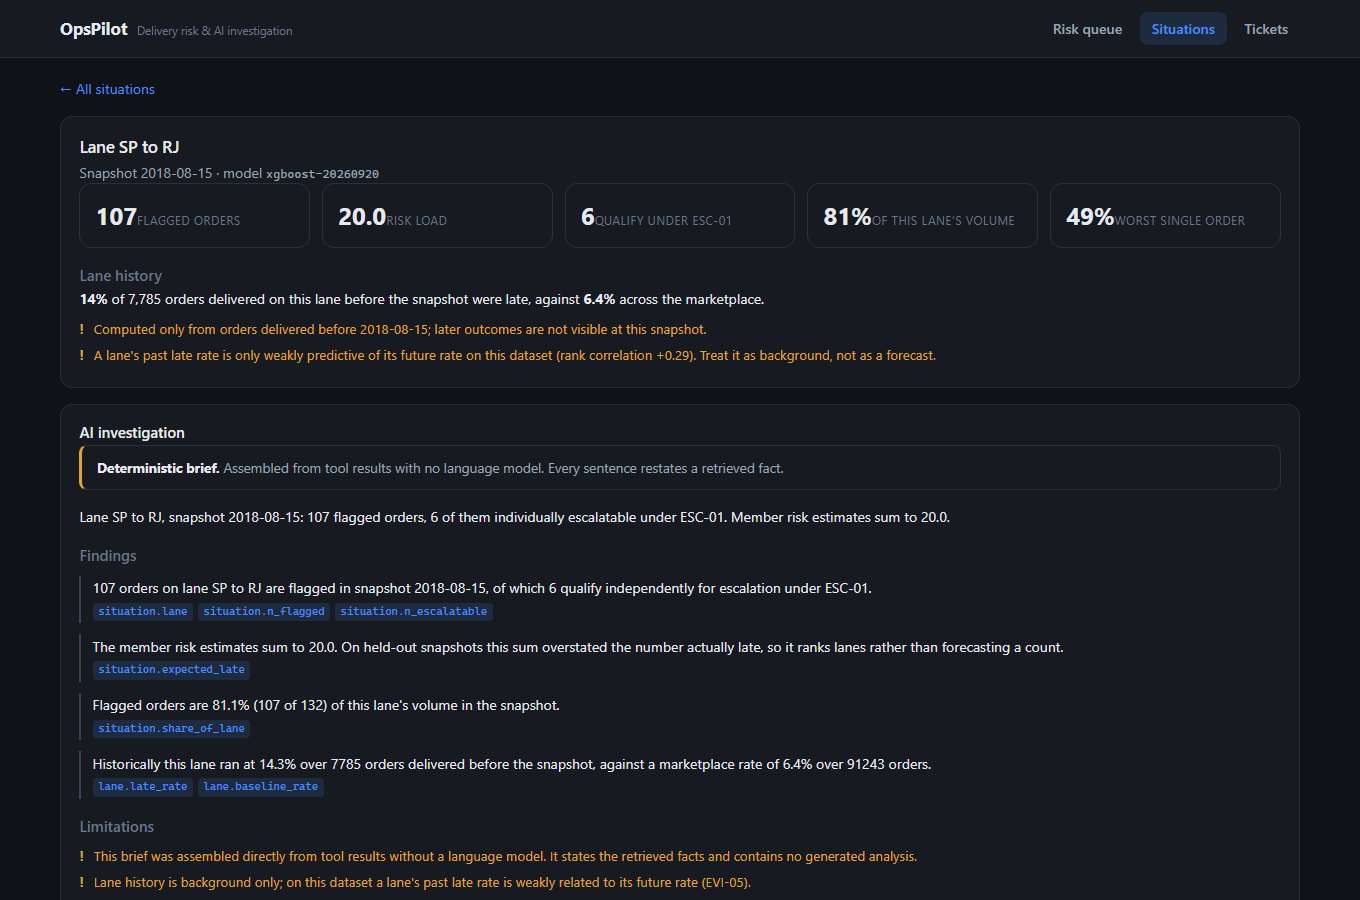
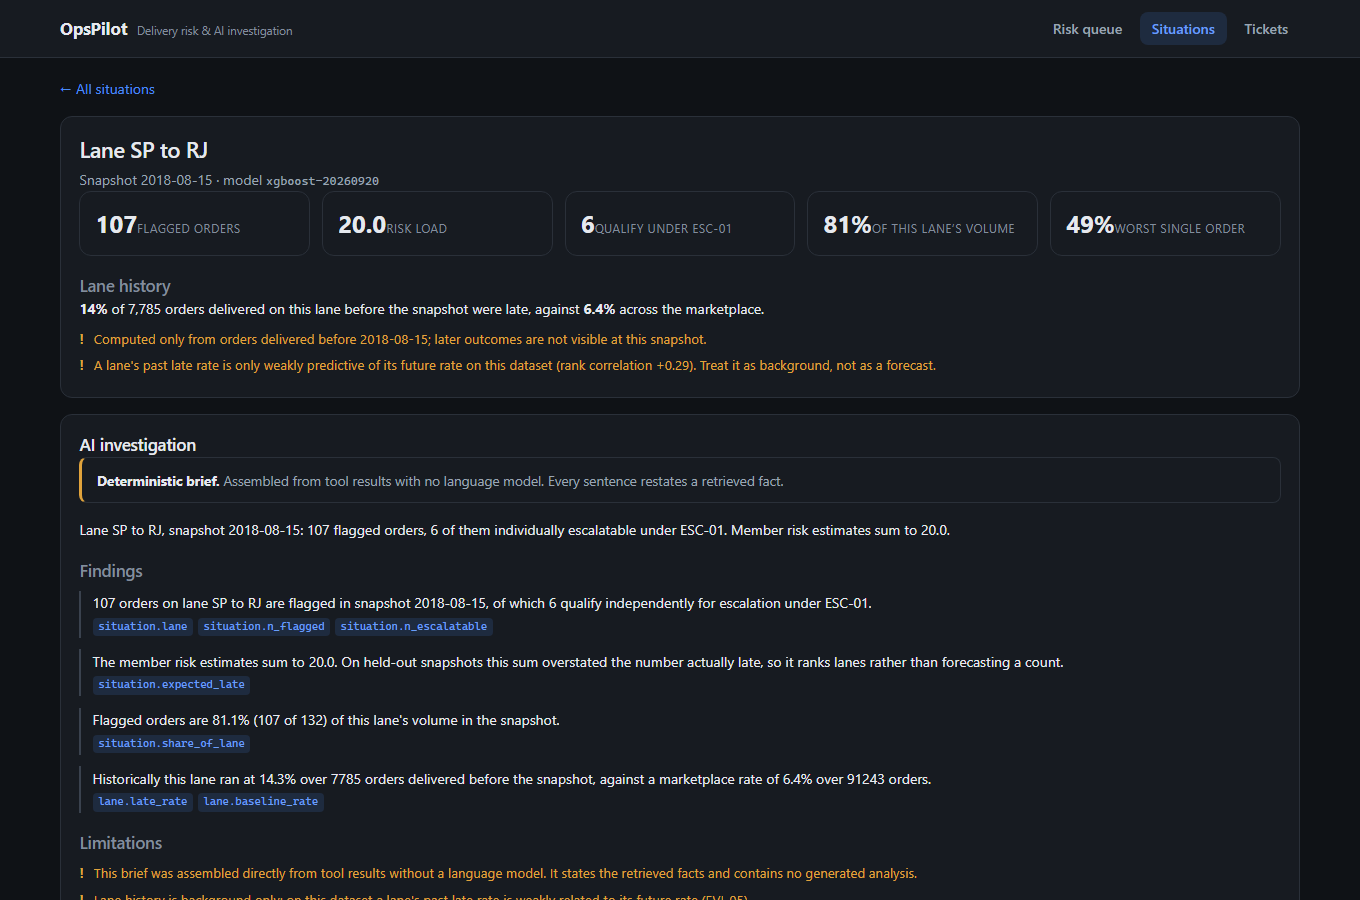
Audit accessibility properly: seven serious violations, all fixed
The previous pass fixed keyboard reachability and stopped there, saying
contrast and labelling were unaudited. axe-core over WCAG 2.1 A and AA on
every screen found them:

- --text-faint measured 3.39:1 on the darkest surface against a 4.5:1
  requirement, and it is the colour of every stat label, field label and
  caption in the product. Raised to 4.65:1 at worst.
- The accent on its own tinted background - the active nav item and every
  evidence-id chip in a report - measured 4.29:1. The hover shade is 5.33:1.
- Three of five screens had no h1 at all, so a screen reader had no page
  title to announce, and one page's sections skipped from h2 to h3.
- The link in the risk queue's hint was distinguished from the sentence
  around it by colour alone. Links in prose are now underlined; links that
  are their own block are not.

Zero violations now, enforced on every screen, and the suite runs in CI.
33 browser tests pass.

diff --git a/frontend/e2e/accessibility.spec.ts b/frontend/e2e/accessibility.spec.ts
@@ -1,0 +1,104 @@
+/** Automated accessibility checks on every screen.
+ *
+ *  A previous pass fixed the blocking defect - table rows were clickable but
+ *  not reachable by keyboard - and stopped there, leaving contrast and
+ *  labelling unexamined. This runs axe-core over each screen against the
+ *  WCAG 2.1 A and AA rule sets, which catches the categories a human reading
+ *  the markup reliably misses: contrast ratios, missing form labels, landmark
+ *  structure and heading order.
+ *
+ *  Serious violations fail the suite. Anything knowingly accepted is listed
+ *  in ACCEPTED below with the reason, so an exception is a decision on the
+ *  record rather than a silent skip.
+ */
+
+import AxeBuilder from "@axe-core/playwright";
+import { expect, test, type Page } from "@playwright/test";
+
+const TAGS = ["wcag2a", "wcag2aa", "wcag21a", "wcag21aa"];
+
+/** Rule ids deliberately not enforced, each with a reason. */
+const ACCEPTED: Record<string, string> = {};
+
+type Violation = {
+  id: string;
+  impact?: string | null;
+  help: string;
+  nodes: { target: unknown[] }[];
+};
+
+async function scan(page: Page, label: string) {
+  const results = await new AxeBuilder({ page }).withTags(TAGS).analyze();
+  const violations = (results.violations as Violation[]).filter(
+    (v) => !(v.id in ACCEPTED),
+  );
+
+  if (violations.length) {
+    const detail = violations
+      .map(
+        (v) =>
+          `  [${v.impact ?? "unknown"}] ${v.id}: ${v.help}\n` +
+          v.nodes
+            .slice(0, 3)
+            .map((n) => `      ${JSON.stringify(n.target)}`)
+            .join("\n"),
+      )
+      .join("\n");
+    throw new Error(`${label} has ${violations.length} accessibility violation(s):\n${detail}`);
+  }
+}
+
+test.describe("Accessibility (axe-core, WCAG 2.1 AA)", () => {
+  test("risk queue", async ({ page }) => {
+    await page.goto("/");
+    await expect(page.getByTestId("order-row").first()).toBeVisible();
+    await scan(page, "risk queue");
+  });
+
+  test("lane situations", async ({ page }) => {
+    await page.goto("/situations");
+    await expect(page.getByTestId("situation-row").first()).toBeVisible();
+    await scan(page, "lane situations");
+  });
+
+  test("lane detail", async ({ page }) => {
+    await page.goto("/situations");
+    await page.getByTestId("situation-row").first().click();
+    await expect(page.getByTestId("situation-detail-stats")).toBeVisible();
+    await scan(page, "lane detail");
+  });
+
+  test("order detail", async ({ page }) => {
+    await page.goto("/");
+    await page.getByTestId("order-row").first().getByRole("link").click();
+    await expect(page.locator("text=/Predicted at carrier handover/i").first()).toBeVisible();
+    await scan(page, "order detail");
+  });
+
+  test("tickets", async ({ page }) => {
+    await page.goto("/tickets");
+    await expect(page.getByRole("heading", { name: "Your tickets" })).toBeVisible();
+    await scan(page, "tickets");
+  });
+
+  test("a rendered lane brief", async ({ page }) => {
+    test.setTimeout(180_000);
+    await page.goto("/situations");
+    await page.getByTestId("situation-row").first().click();
+    await expect(page.getByTestId("situation-detail-stats")).toBeVisible();
+    await page.getByTestId("investigate-deterministic").click();
+    await expect(page.getByTestId("situation-report")).toBeVisible({ timeout: 90_000 });
+    await scan(page, "lane brief");
+  });
+
+  test("every page has one main landmark and a page heading", async ({ page }) => {
+    for (const path of ["/", "/situations", "/tickets"]) {
+      await page.goto(path);
+      await page.waitForTimeout(1200);
+      expect(await page.locator("main").count(), `${path} main landmark`).toBe(1);
+      // Exactly one h1 per page: three screens had none at all, so a screen
+      // reader had no page title to announce.
+      expect(await page.getByRole("heading", { level: 1 }).count(), `${path} h1`).toBe(1);
+    }
+  });
+});

diff --git a/frontend/src/pages/SituationDetail.tsx b/frontend/src/pages/SituationDetail.tsx
@@ -119,7 +119,7 @@ export default function SituationDetail() {
       <section className="card">
         <div className="row">
           <div>
-            <h2 style={{ marginBottom: "0.2rem" }}>Lane {situation.lane}</h2>
+            <h1 style={{ marginBottom: "0.2rem" }}>Lane {situation.lane}</h1>
             <p className="muted" style={{ margin: 0 }}>
               Snapshot {situation.snapshot_id} &middot; model{" "}
               <code>{situation.model_version ?? "unavailable"}</code>
@@ -152,7 +152,7 @@ export default function SituationDetail() {
           </div>
         </div>
 
-        <h3 className="faint">Lane history</h3>
+        <h2 className="faint">Lane history</h2>
         {history.available ? (
           <p style={{ marginTop: 0 }}>
             <strong>{formatRisk(history.late_rate ?? 0)}</strong> of{" "}
@@ -179,7 +179,7 @@ export default function SituationDetail() {
       </section>
 
       <section className="card">
-        <h3 style={{ marginTop: 0 }}>AI investigation</h3>
+        <h2 style={{ marginTop: 0 }}>AI investigation</h2>
 
         {!investigation && !running && (
           <>
@@ -252,9 +252,9 @@ export default function SituationDetail() {
 
             {investigation.facts.length > 0 && (
               <div>
-                <h3 className="faint" style={{ marginBottom: "0.5rem" }}>
+                <h2 className="faint" style={{ marginBottom: "0.5rem" }}>
                   Findings
-                </h3>
+                </h2>
                 {investigation.facts.map((f, i) => (
                   <div className="fact" key={i}>
                     {f.statement}
@@ -272,9 +272,9 @@ export default function SituationDetail() {
 
             {investigation.limitations.length > 0 && (
               <div>
-                <h3 className="faint" style={{ marginBottom: "0.5rem" }}>
+                <h2 className="faint" style={{ marginBottom: "0.5rem" }}>
                   Limitations
-                </h3>
+                </h2>
                 {investigation.limitations.map((l, i) => (
                   <div className="limitation" key={i}>
                     {l}
@@ -284,9 +284,9 @@ export default function SituationDetail() {
             )}
 
             <div>
-              <h3 className="faint" style={{ marginBottom: "0.3rem" }}>
+              <h2 className="faint" style={{ marginBottom: "0.3rem" }}>
                 Recommendation
-              </h3>
+              </h2>
               <p style={{ marginBottom: "0.25rem" }}>
                 <strong>
                   {RECOMMENDATION_LABEL[investigation.recommendation ?? ""] ??
@@ -331,7 +331,7 @@ export default function SituationDetail() {
 
       {proposal && (
         <section className="card" data-testid="situation-proposal">
-          <h3 style={{ marginTop: 0 }}>Proposed action</h3>
+          <h2 style={{ marginTop: 0 }}>Proposed action</h2>
           <p>{proposal.reason}</p>
           <p className="muted small">
             This escalation would cover{" "}
@@ -379,9 +379,9 @@ export default function SituationDetail() {
       )}
 
       <section className="card">
-        <h3 style={{ marginTop: 0 }}>
+        <h2 style={{ marginTop: 0 }}>
           Member orders ({situation.members.length})
-        </h3>
+        </h2>
         <div className="table-wrap">
           <table>
             <thead>

diff --git a/frontend/src/index.css b/frontend/src/index.css
@@ -11,7 +11,10 @@
 
   --text: #e6e9ee;
   --text-muted: #9aa4b2;
-  --text-faint: #6b7686;
+  /* Raised from #6b7686, which measured 3.39:1 on the darkest
+     surface against the 4.5:1 WCAG AA requirement. Now 4.65:1
+     at worst; axe-core enforces it on every screen. */
+  --text-faint: #828d9d;
 
   --accent: #4b8bf5;
   --accent-hover: #6a9ef7;
@@ -119,7 +122,9 @@ code, .mono { font-family: var(--mono); font-size: 0.86em; }
   font-weight: 500;
 }
 .nav a:hover { background: var(--surface-2); color: var(--text); text-decoration: none; }
-.nav a.active { background: var(--accent-soft); color: var(--accent); }
+/* The tinted active background lifts the floor, so the plain accent
+   measured only 4.29:1 on it. The hover shade clears AA at 5.33:1. */
+.nav a.active { background: var(--accent-soft); color: var(--accent-hover); }
 
 .main {
   flex: 1;
@@ -363,7 +368,9 @@ tbody tr.clickable:hover { background: var(--surface-2); }
   font-family: var(--mono);
   font-size: 0.68rem;
   background: var(--accent-soft);
-  color: var(--accent);
+  /* Accent on its own tinted background is 4.29:1. The hover shade is
+     5.33:1 and clears AA; same fix as the active nav item. */
+  color: var(--accent-hover);
   border-radius: 4px;
   padding: 0.05rem 0.35rem;
 }
@@ -479,3 +486,16 @@ tbody tr.clickable:hover { background: var(--surface-2); }
   margin-top: 0.2rem;
 }
 .factor__bar span { display: block; height: 100%; border-radius: 2px; }
+
+/* ---------- inline links in running text ----------
+   axe flagged `link-in-text-block`: a link inside a paragraph that differs
+   from the surrounding text only by colour is invisible to anyone who does
+   not perceive that difference. Links inside prose are underlined; links
+   that are their own block (nav, table cells, buttons) are not, because
+   there is no surrounding text to be confused with. */
+p a,
+.limitation a,
+.fact a {
+  text-decoration: underline;
+  text-underline-offset: 0.15em;
+}

diff --git a/frontend/src/pages/OrderInvestigation.tsx b/frontend/src/pages/OrderInvestigation.tsx
@@ -227,7 +227,7 @@ export default function OrderInvestigation() {
           </div>
 
           <div className="card">
-            <h2 style={{ marginBottom: "0.7rem" }}>Order as of {formatDate(order.snapshot_at)}</h2>
+            <h1 style={{ marginBottom: "0.7rem" }}>Order as of {formatDate(order.snapshot_at)}</h1>
             <dl className="kv">
               <dt>Purchased</dt>
               <dd>{formatDateTime(order.order_purchase_timestamp)}</dd>

diff --git a/frontend/src/pages/Situations.tsx b/frontend/src/pages/Situations.tsx
@@ -83,7 +83,7 @@ export default function Situations() {
     <section>
       <div className="row">
         <div>
-          <h2>Lane situations</h2>
+          <h1>Lane situations</h1>
           <p className="muted" style={{ maxWidth: "62ch" }}>
             Flagged orders grouped by the lane they travel, ranked by how many
             risk they carry. A lane is one decision: you
